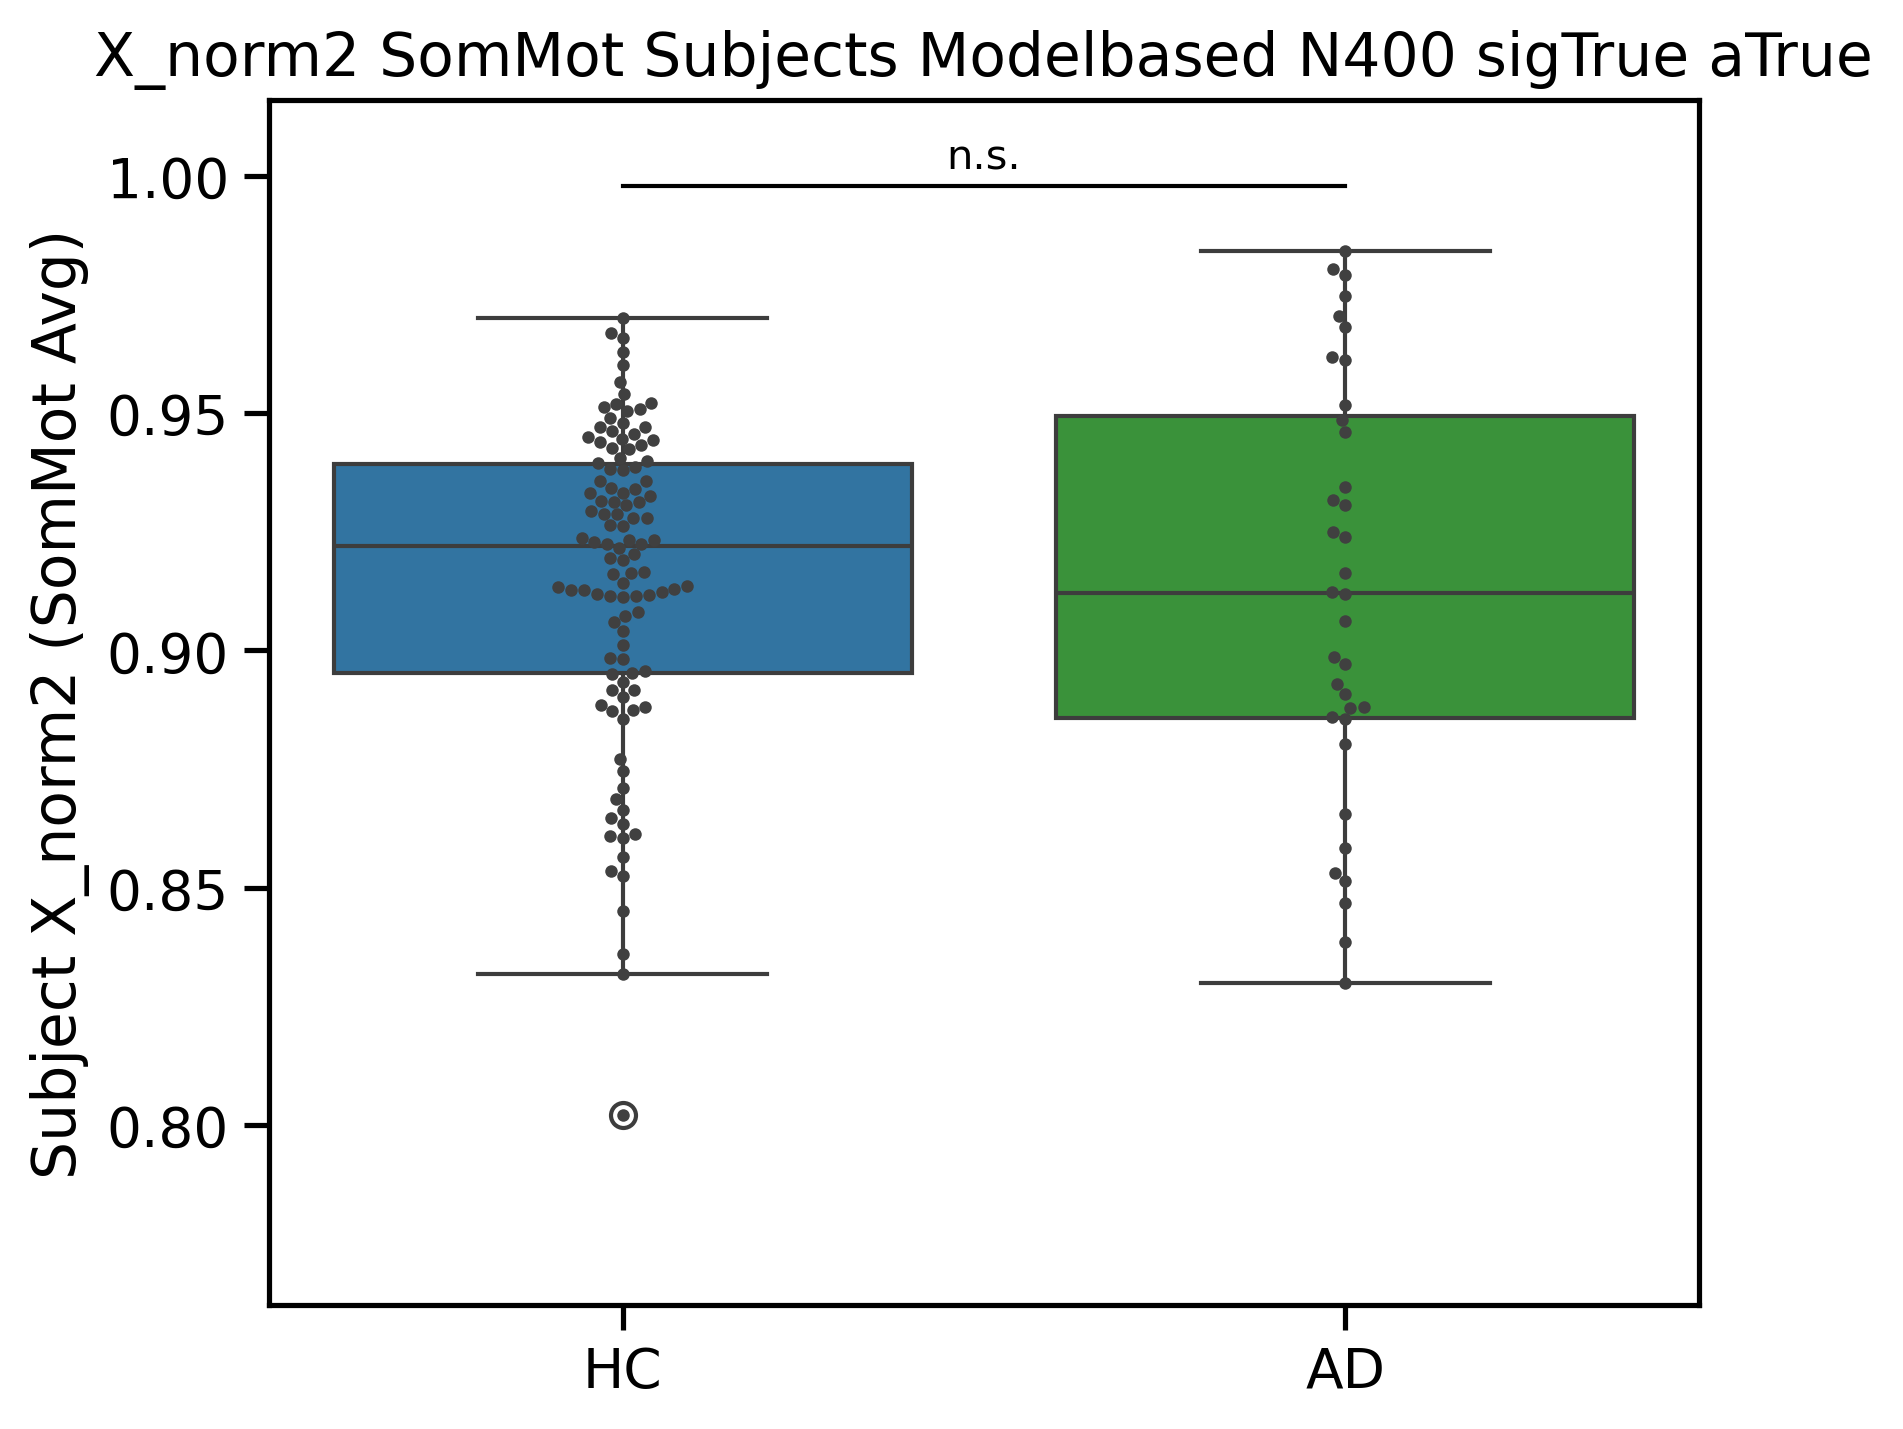
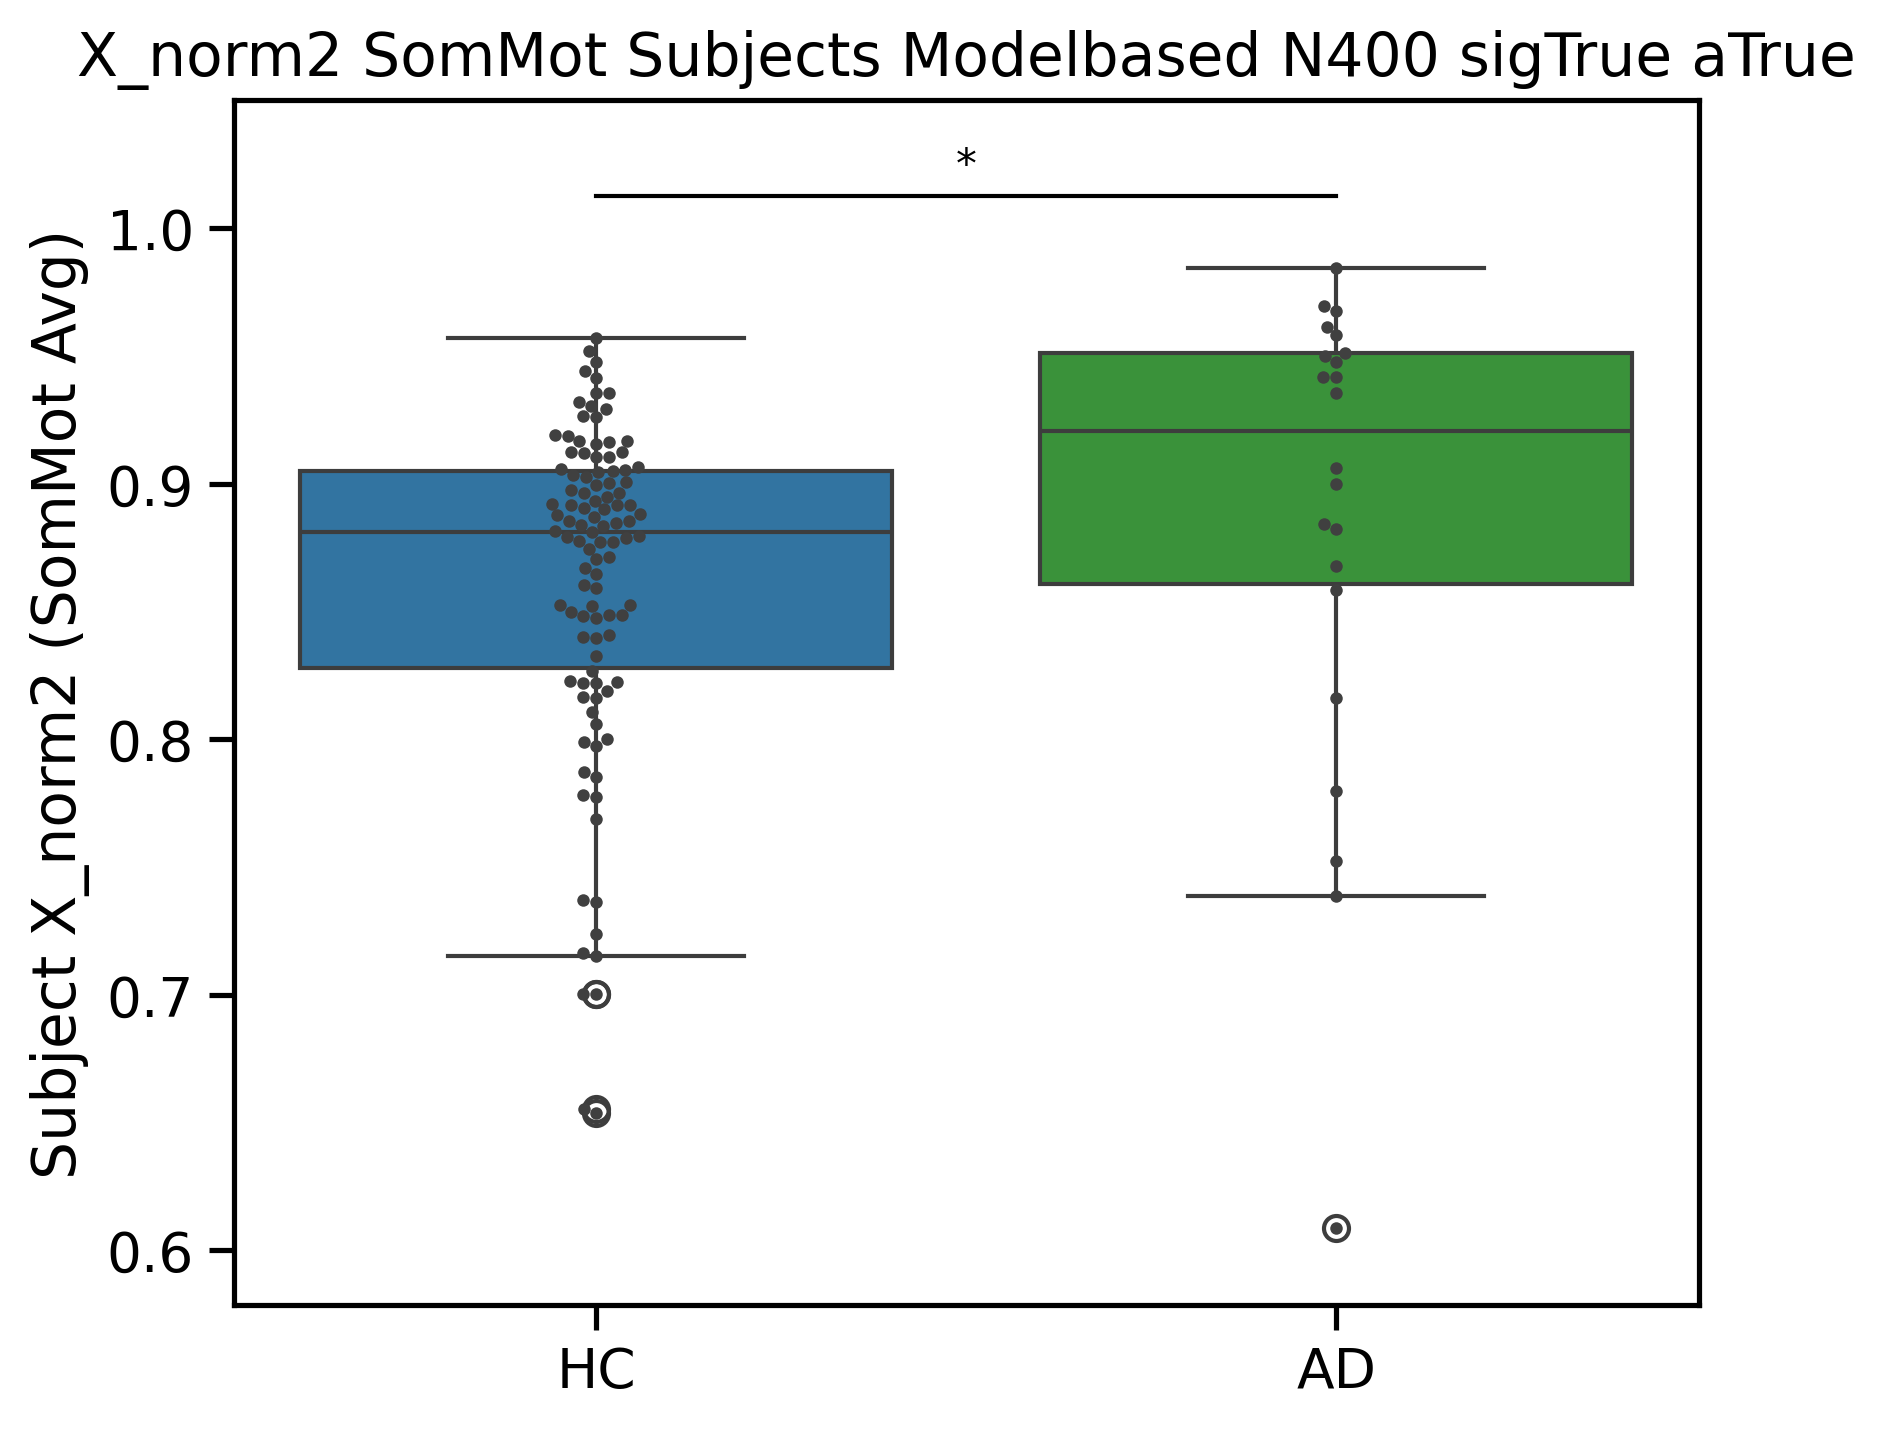
new

diff --git a/compute_linhopf.py b/compute_linhopf.py
@@ -10,15 +10,56 @@ import time
 import pandas as pd
 from typing import Union
 
+
+from typing import Tuple
+def calculate_parcel_variance(
+    ts_array: np.ndarray, 
+    axis: int = 2
+) -> Tuple[np.ndarray, np.ndarray]:
+    """
+    Calculates the variance and standard deviation for each parcel in a 3D time series array.
+
+    The input array is expected to be Z-scored and have the shape (N_SUBJECTS, N_PARCELS, N_STEPS).
+    The calculation is performed across the time axis (axis=2 by default).
+
+    Args:
+        ts_array: A 3D numpy array of time series data (Subjects, Parcels, Time Steps).
+        axis: The axis along which to calculate the variance (usually 2, the time axis).
+
+    Returns:
+        A tuple containing:
+        - subject_variances: Array of shape (N_SUBJECTS, N_PARCELS) containing the variance 
+          per parcel for each subject.
+        - group_mean_std_dev: Array of shape (N_PARCELS,) containing the mean standard 
+          deviation across all subjects for each parcel.
+    """
+    # ----------------------------------------------------
+    # 1. Variance per Parcel for *Each Subject*
+    # ----------------------------------------------------
+    # We calculate the variance along the time axis (axis=2).
+    # The result has shape (N_SUBJECTS, N_PARCELS).
+    subject_variances = np.var(ts_array, axis=axis)
+
+    # ----------------------------------------------------
+    # 2. Group Mean Standard Deviation
+    # ----------------------------------------------------
+    # Standard deviation is often more interpretable than variance.
+    subject_std_devs = np.sqrt(subject_variances)
+    
+    # Calculate the mean standard deviation across all subjects for each parcel.
+    group_mean_std_dev = np.mean(subject_std_devs, axis=0)
+
+    # Note: For perfectly z-scored data, both subject_variances and group_mean_std_dev 
+    # should be very close to 1.0. Any significant deviation suggests a problem 
+    # in the initial z-scoring process or subsequent data trimming/filtering.
+    
+    return subject_variances, group_mean_std_dev
+
 start_time = time.time()
 
 ### MAIN INPUT PARAMETERS (other parameters from json file)
-<<<<<<< HEAD
-DL_type = 'DL_B2'
-=======
-DL_type = 'DL_B1'
->>>>>>> 8f4daab85d81775e448907d3d952ff250cf9dc47
-NPARCELLS = 400 # max 379
+DL_type = 'DL_A'
+NPARCELLS = 20 # max 379
 fit_sigma = True
 fit_a = True
 verbose = False
@@ -48,13 +89,18 @@ all_data = []
 for group in DL.get_groupLabels():
     print(f"Loading {group}...")
     all_data.extend(load_data_records.load_group_data(DL, group, SC=SC_400))
-    # mri_values = all_data[1]['MRI']
-    # print(f"Max MRI value: {np.max(mri_values)}")
-    # print(f"Min MRI value: {np.min(mri_values)}")
-    # print(f"Mean MRI value: {np.mean(mri_values)}")
+    print(all_data[0]['MRI'][:,:20])
+    sub_var_all, group_std_all = calculate_parcel_variance(np.array([all_data[0]['MRI'][:,:20]]))
+    print(np.average(sub_var_all), np.average(group_std_all))
+    #print(all_data[0]['MRI'].shape)
+    mri_values = all_data[1]['MRI']
+    print(f"Max MRI value: {np.max(mri_values)}")
+    print(f"Min MRI value: {np.min(mri_values)}")
+    print(f"Mean MRI value: {np.mean(mri_values)}")
 TSemp_zsc = zfilterts.prepare_timeseries(all_data, NPARCELLS)
 group_data = load_data_records.prepare_group_data(all_data, NPARCELLS)
-
+sub_var, group_std = calculate_parcel_variance(TSemp_zsc)
+print(np.average(sub_var), np.average(group_std))
 results = []
 group_results = []
 groups_fitted = set()
@@ -91,6 +137,7 @@ print(f"\nTotal computation time: {end_time - start_time:.2f} seconds")
 #Save results to npz
 df = pd.DataFrame(results + group_results)
 results_dict = {str(key): value for key, value in df.to_dict(orient="list").items()}
+#print(df['FCsim'].values)
 
 repo_root = os.getcwd()
 save_path = os.path.join(repo_root, "data", "HOPF_DATA")

diff --git a/inspectmat.py b/inspectmat.py
@@ -1,0 +1,70 @@
+import numpy as np
+from scipy.io import loadmat
+
+# --- Configuration ---
+# IMPORTANT: Replace this path with the actual path to your .mat file.
+# We will use one of the filenames you uploaded as an example.
+MAT_values = 'data/ADNI-B_DATA/N238rev/tseries/sch400/tseries_ADNI3_AD_MPRAGE_batches123_sch400_matching_QC_COMBINED.mat'
+MAT_A = 'data/ADNI-B_DATA/N238rev/tseries/sch400/combined_PTIDS_ADNI3_AD_MPRAGE.mat'
+
+
+def inspect_mat_file(file_path):
+    """
+    Loads a .mat file, prints its dictionary keys, and provides a shape and type 
+    summary for the top-level variables.
+    
+    :param file_path: The path to the .mat file.
+    """
+    print(f"--- Inspecting file: {file_path} ---")
+
+    try:
+        # Load the .mat file content into a Python dictionary
+        mat_contents = loadmat(file_path)
+    except FileNotFoundError:
+        print(f"ERROR: File not found at path: {file_path}")
+        print("Please ensure the file path is correct.")
+        return
+    except Exception as e:
+        print(f"ERROR: Could not load .mat file. Ensure it is a valid MATLAB file (v5 or higher). Details: {e}")
+        return
+
+    # 1. Print all top-level keys
+    print("\n[1] Top-Level Dictionary Keys (Variables):")
+    # Exclude standard internal MATLAB metadata keys
+    keys = [key for key in mat_contents.keys() if not key.startswith('__')]
+    print(keys)
+    
+    print("\n[2] Variable Type and Shape Summary:")
+    
+    # 2. Iterate through keys and print structural info
+    for key in keys:
+        variable = mat_contents[key]
+        
+        # Check if the variable is a NumPy array (most common case for data)
+        if isinstance(variable, np.ndarray):
+            print(f"- Key: '{key}'")
+            print(f"  Type: {variable.dtype}")
+            print(f"  Shape: {variable.shape}")
+            
+            # If the array is very large, print only the first few elements
+            if variable.size > 0:
+                print(f"  Example data (first few values): {list(variable.flat[:min(5, variable.size)])}")
+            
+            # Access and print the actual array elements if they are nested
+            if variable.dtype == np.dtype('object'):
+                print("  Accessing nested array elements:")
+            for i, elem in enumerate(variable.flat[:min(5, variable.size)]):
+                if isinstance(elem, np.ndarray):
+                    print(f"    Element {i}: {list(elem)}")
+                else:
+                    print(f"    Element {i}: {elem}")
+        else:
+            # Handle non-array types (should be rare for data files)
+            print(f"- Key: '{key}'")
+            print(f"  Type: {type(variable)}")
+            
+    print("\n--- Inspection Complete ---")
+
+# Execute the inspection function
+if __name__ == "__main__":
+    inspect_mat_file(MAT_values)

diff --git a/compute_analysis.py b/compute_analysis.py
@@ -6,11 +6,11 @@ from src.analysis.p_values import parcel_comparison_rsn, subject_comparison_rsn
 from src.analysis.p_values import parcel_comparison, subject_comparison
 import json
 
-DL_type = 'DL_A'
+DL_type = 'DL_B1'
 model_type = 'modelbased'  # 'modelfree' or 'modelbased'
-NPARCELLS = 379 # max 379 for DL_A, max 400 for DL_B
+NPARCELLS = 400 # max 379 for DL_A, max 400 for DL_B
 fit_sigma = True
-fit_a = False
+fit_a = True
 
 
 repo_root = os.getcwd() 
@@ -66,8 +66,7 @@ def add_parcel_info_to_df(df, NPARCELLS, json_data_path):
 add_parcel_info_to_df(df, NPARCELLS, os.path.join(repo_root, 'hyperparams.json'))
 
 print(df.head())
-measure = 'X_norm2'
-parcel_comparison_rsn(df, 'X_norm2', 'Limbic', model_type, NPARCELLS, fit_sigma, fit_a, save_path_plot=save_path_plot)
+measure = 'I_norm2'
 subject_comparison_rsn(df, measure, 'Vis', model_type, NPARCELLS, fit_sigma, fit_a, save_path_plot=save_path_plot)
 subject_comparison_rsn(df, measure, 'SomMot', model_type, NPARCELLS, fit_sigma, fit_a, save_path_plot=save_path_plot)
 subject_comparison_rsn(df, measure, 'DorsAttn', model_type, NPARCELLS, fit_sigma, fit_a, save_path_plot=save_path_plot)

diff --git a/testFC.py b/testFC.py
@@ -14,8 +14,11 @@ def emp_sim_triangles(DL_type='DL_A', NPARCELLS=40, fit_sigma=True, fit_a=True,
     
     empirical_fcs = np.stack(df['FCemp'][:n_conditions], axis=0)
     simulated_fcs = np.stack(df['FCsim'][:n_conditions], axis=0)
-    
-    # Truncate and set diagonal to zero FIRST
+    #print(df['losses'].values)
+    print(df['a'][0])
+    print(df['sigma'][0])
+
+    # Truncate and set diagonal to zero §FIRST
     for i in range(n_conditions):
         empirical_fcs[i] = empirical_fcs[i][:NPARCELLS, :NPARCELLS]
         simulated_fcs[i] = simulated_fcs[i][:NPARCELLS, :NPARCELLS]
@@ -171,9 +174,10 @@ def emp_sim_triangles(DL_type='DL_A', NPARCELLS=40, fit_sigma=True, fit_a=True,
     
     cbar.ax.yaxis.label.set_fontsize(14)
     cbar.ax.yaxis.label.set_fontweight('bold')
-
+    print(DL_type, NPARCELLS, fit_sigma, fit_a, joint_normalization)
     plt.show()
 
-emp_sim_triangles()
+emp_sim_triangles(DL_type='DL_B1', NPARCELLS=20, fit_sigma=True, fit_a=True, 
+                 joint_normalization=False, n_conditions=4)
 
 # def connectivity_matrices3():

diff --git a/src/data_loaders/load_data_records.py b/src/data_loaders/load_data_records.py
@@ -8,6 +8,8 @@ import src.data_loaders.ADNI_B as ADNI_B
 def load_group_data(DL, group_name, SC=None):
     """Load all subjects from one group"""
     subject_ids = DL.get_groupSubjects(group_name)
+    if DL == 'DL_A': factor = 1/10
+    else: factor = 10
     group_data = []
     
     for subject_id in subject_ids:
@@ -15,7 +17,7 @@ def load_group_data(DL, group_name, SC=None):
         group_data.append({
             'subject_id': subject_id,
             'group': group_name,
-            'MRI': data[subject_id]['timeseries'].T,
+            'MRI': data[subject_id]['timeseries'].T*factor,
             'SC': data[subject_id]['SC'] if 'SC' in data[subject_id] else SC,
             'f_diff': filterps.calc_H_freq(
                 data[subject_id]['timeseries'].T, 3000, 

diff --git a/autocorrtau.py b/autocorrtau.py
@@ -32,7 +32,8 @@ def run_single_fit(t, params, NPARCELLS, DL_type, SC_400):
     # --- 2. Load and Prepare Data ---
     all_data = []
     for group in DL.get_groupLabels():
-        SC_HC_Avg = DL.get_AvgSC_ctrl()
+        DLA = ADNI_A.ADNI_A(normalizeBurden=False)
+        SC_HC_Avg = DLA.get_AvgSC_ctrl()
         SC_400 = np.pad(
             SC_HC_Avg,
             pad_width=((0, 21), (0, 21)),
@@ -94,8 +95,8 @@ def run_single_fit(t, params, NPARCELLS, DL_type, SC_400):
 start_time = time.time()
 
 # --- INPUT PARAMETERS ---
-DL_type = 'DL_A'
-NPARCELLS = 60
+DL_type = 'DL_B1'
+NPARCELLS = 20
 fit_sigma = True
 fit_a = True
 verbose = False

diff --git a/src/functions_frameworks/LinHopfFit.py b/src/functions_frameworks/LinHopfFit.py
@@ -446,7 +446,7 @@ class LinearHopfModel:
             'loss_weights': kwargs.get('loss_weights', {'mse_fc': 0.5, 'mse_covtau': 0.5}),
             'fit_sigma': kwargs.get('fit_sigma', False),
             'fit_a': kwargs.get('fit_a', False),
-            'TR': kwargs.get('TR', 2.0),
+            'TR': kwargs.get('TR', 3.0),
             'tau': kwargs.get('tau', 1),
             'g': kwargs.get('g', 1.0),
         }

diff --git a/compute_FDT_modelbased.py b/compute_FDT_modelbased.py
@@ -3,8 +3,8 @@ import numpy as np
 import pandas as pd
 from src.functions_frameworks.functions_FDT_norm2 import I_norm2, X_norm2
 
-DL_type = 'DL_A'
-NPARCELLS = 40  # max 379
+DL_type = 'DL_B1'
+NPARCELLS = 20  # max 379
 fit_sigma = True
 fit_a = True
 
